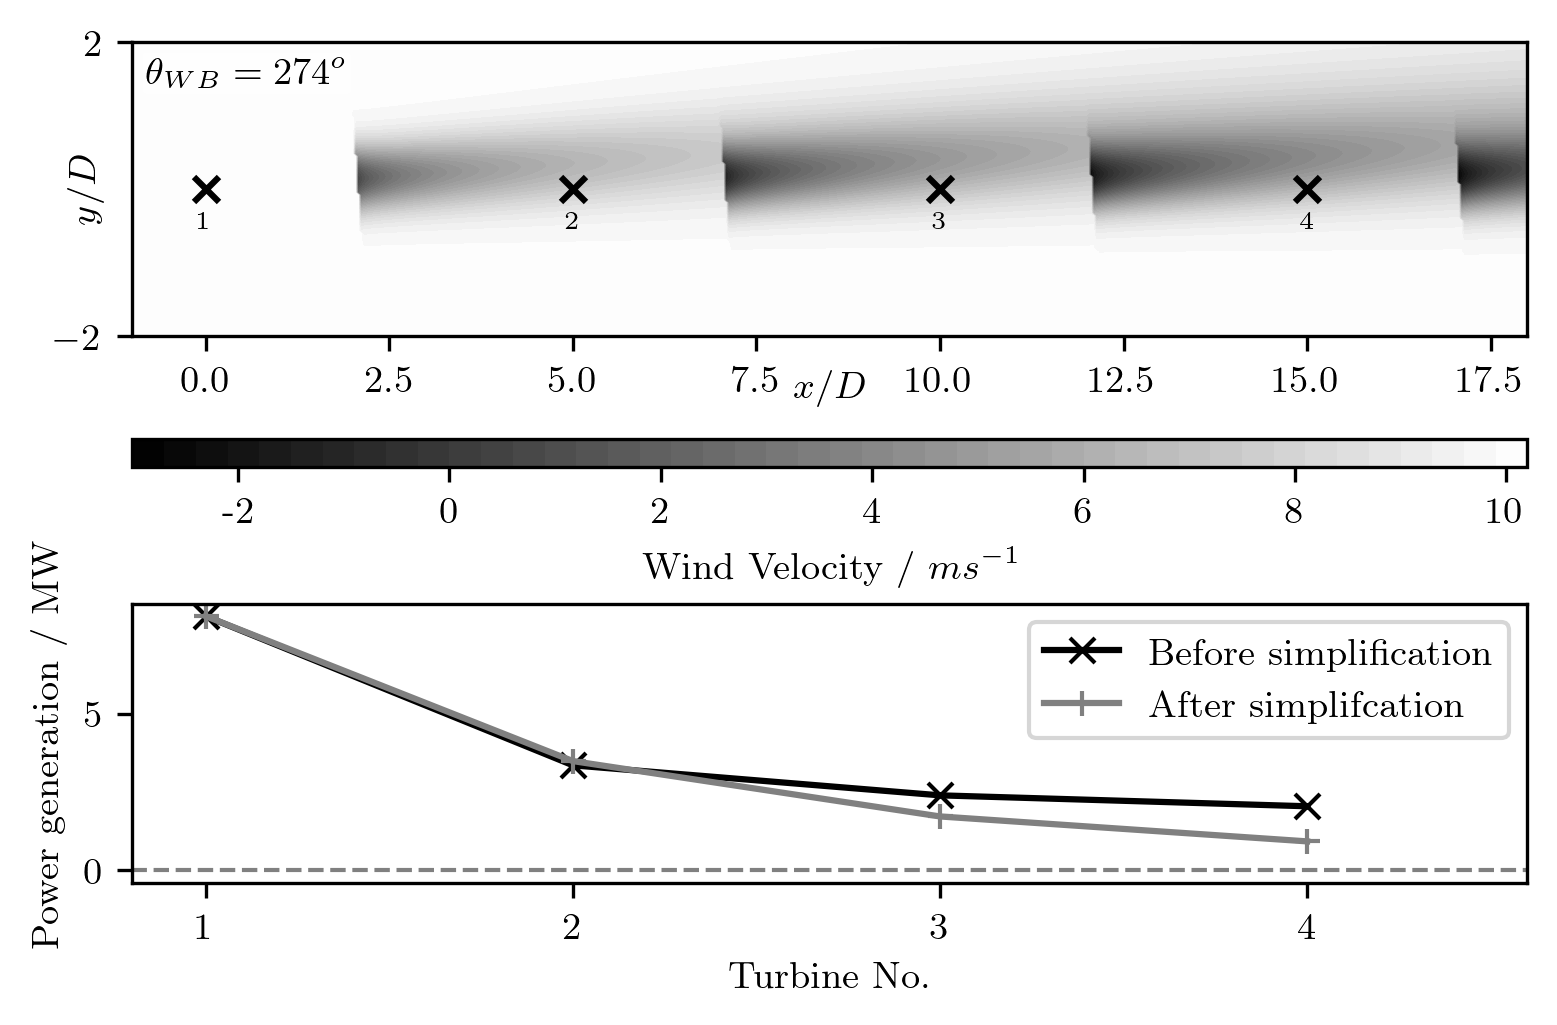
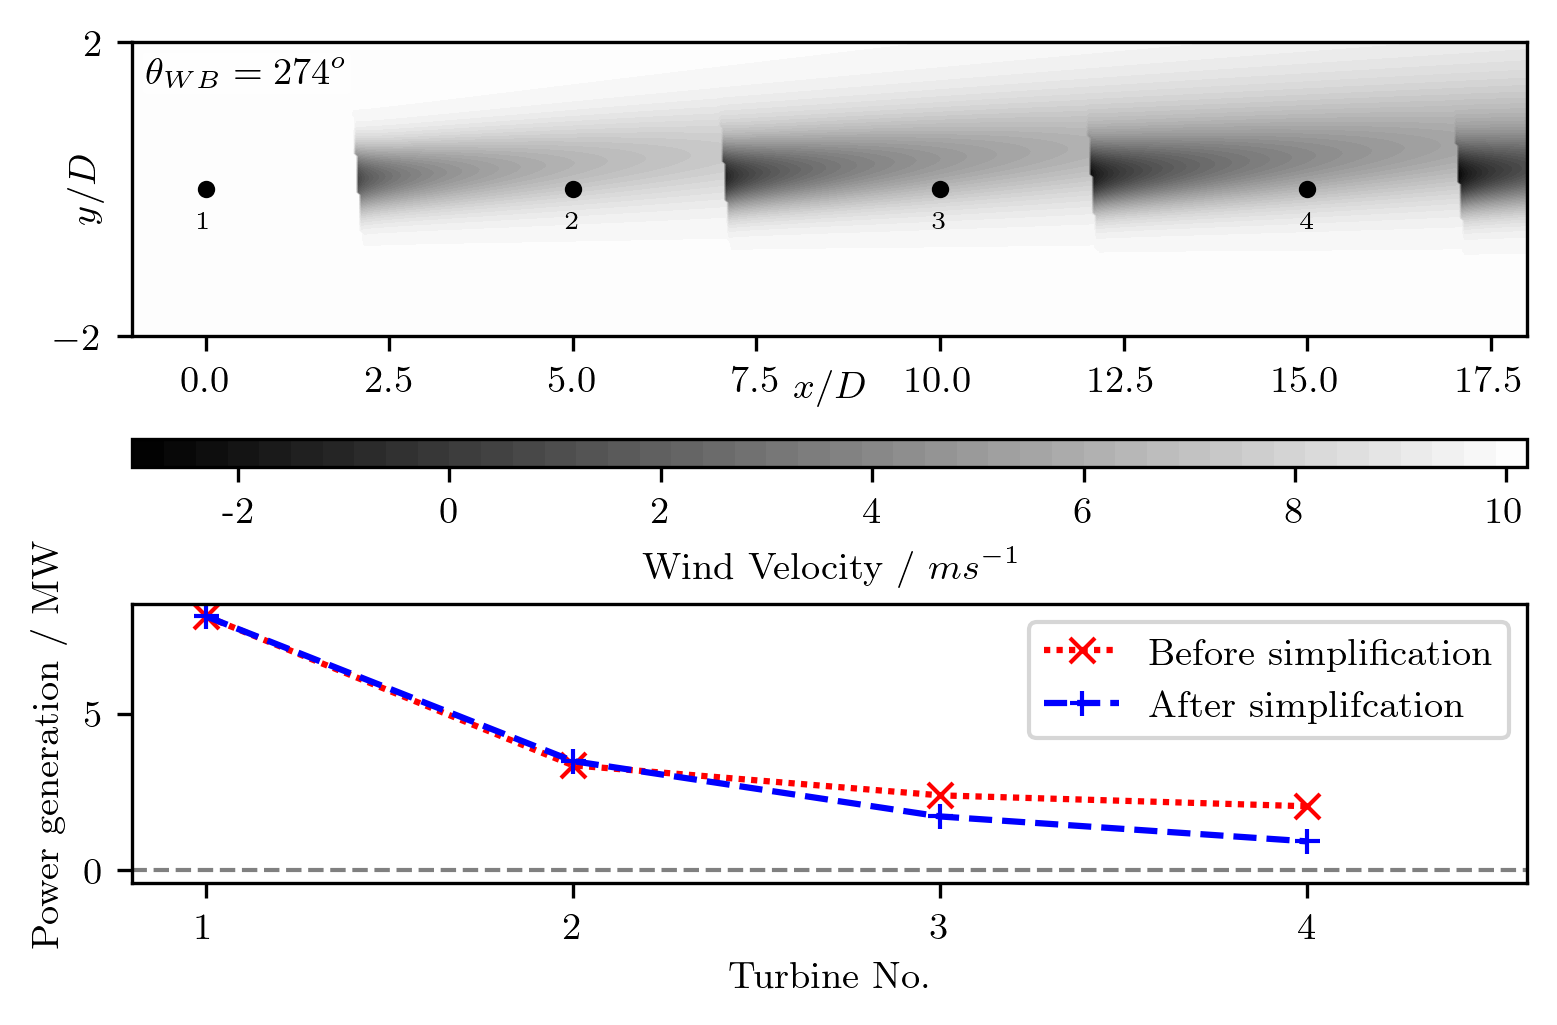
Updated figures

diff --git a/src/Fig_XtermSingle_v2.py b/src/Fig_XtermSingle_v2.py
@@ -12,7 +12,6 @@ XPAD = 7 #X border in normalised rotor DIAMETERS
 YPAD = 7 #Y border in normalised rotor DIAMETERS
 U_inf = 10 #inflow wind speed
 U_LIM = None #manually override ("user limit") the invalid radius around the turbine (otherwise variable, depending on k/Ct) - 
-K = 0.03
 XRES = 800 #number of x points in the contourf meshgrid
 YRES = 400 #must be odd so centerline can be picked later on
 
@@ -20,7 +19,7 @@ from utilities.helpers import linear_layout,rectangular_domain
 xt,yt,layout = linear_layout(NT,SPACING)
 xx,yy,plot_points,_,_ = rectangular_domain(layout,xpad=XPAD,ypad=YPAD,xr=XRES,yr=YRES)
 
-td = 4
+td = 4 #offset
 U_i,P_i,thetaD_i = np.array((U_inf,)),np.array((1,)),np.array((td,)) 
 
 from utilities.AEP3_functions import num_Fs
@@ -74,7 +73,7 @@ from matplotlib.colors import LinearSegmentedColormap
 colors = ["black", "white"]
 cmap1 = LinearSegmentedColormap.from_list("mycmap", colors)
 cf = ax1.contourf(xx,yy,Uwff_b.reshape(xx.shape),50,cmap=cmap1)
-ax1.scatter(layout[:,0],layout[:,1],marker ='x',color='black')
+ax1.scatter(layout[:,0],layout[:,1],marker ='o',color='black',s=10)
 #mark turbine locations
 for i in range(NT): #label each turbine
     an_text = str(i+1)
@@ -90,12 +89,15 @@ cb.set_label("Wind Velocity / $ms^{-1}$")
 from matplotlib.ticker import MaxNLocator
 cax.xaxis.set_major_locator(MaxNLocator(integer=True))
 
+colors = ["red", "green", "blue"] 
+line_styles = [(0, (1, 1)),"-.","--"]
+
 #scatter of per-turbine power generation
 ax2.set_xlabel('Turbine No.')
 ax2.set_ylabel('Power generation / MW')
 ax2.set(xlim=xlims)
-ax2.plot(layout[:,0],powj_a,marker = 'x',color='black',label='Before simplification')
-ax2.plot(layout[:,0],powj_b,marker='+',color='grey',label='After simplifcation')
+ax2.plot(layout[:,0],powj_a,marker = 'x',color=colors[0],label='Before simplification', ls=line_styles[0])
+ax2.plot(layout[:,0],powj_b,marker='+',color=colors[2],label='After simplifcation', ls=line_styles[2])
 ax2.hlines(0,-20,20,ls='--',color='grey',lw=1)
 ax2.legend(loc='upper right')
 xtick_labels = [str(i+1) for i in range(0,NT)]

diff --git a/src/Fig_turbRef.py b/src/Fig_turbRef.py
@@ -7,7 +7,8 @@ import matplotlib.pyplot as plt
 
 # Define the colormap
 cmap = plt.cm.viridis
-colors = [cmap(0.0), cmap(0.5)] 
+colors = ["red", "green", "blue"] 
+line_styles = [(0, (1, 1)),"-.","--"]
 set_latex_font()
 
 turb = iea_10MW()
@@ -16,15 +17,15 @@ y1 = turb.Ct_f(xs)
 y2 = turb.Cp_f(xs)
 import matplotlib.pyplot as plt
 fig,ax = plt.subplots(figsize=(3,2.5),dpi=300)
-ax.plot(xs,y1,label='$C_t$',color=colors[0])
-ax.plot(xs,y2,label='$C_p$',color=colors[1])
+ax.plot(xs,y1,label='$C_t$',color=colors[0],ls=line_styles[0])
+ax.plot(xs,y2,label='$C_p$',color=colors[2],ls=line_styles[2])
 ax.set(xlabel='Wind Speed / $ms^{-1}$',ylabel = 'Thrust/Power Coefficient',ylim=(None,0.9))
 
 ax.legend(loc="upper right",frameon=False)
 
 # Adding grey boxes to highlight regions
-ax.axvspan(3, 10.5, color='grey', alpha=0.15,ec='none')  # Adjust the x-axis values as per the region you want to highlight
-ax.axvspan(11, 25, color='grey', alpha=0.15,ec='none')  # Adjust the x-axis values as per the region you want to highlight
+ax.axvspan(3, 10.8, color='grey', alpha=0.15,ec='none')  # Adjust the x-axis values as per the region you want to highlight
+ax.axvspan(11.2, 25, color='grey', alpha=0.15,ec='none')  # Adjust the x-axis values as per the region you want to highlight
 
 ax.text(6.75, 0.85, 'Region II', horizontalalignment='center', verticalalignment='center', color='black')
 ax.text(18.25, 0.85, 'Region III', horizontalalignment='center', verticalalignment='center', color='black')

diff --git a/src/Fig_RndmLayout.py b/src/Fig_RndmLayout.py
@@ -9,7 +9,7 @@ if hasattr(sys, 'ps1'):
 
 import numpy as np
 
-run = 1
+run = 0
 SAVE_FIG = False
 timed = False 
 if not run:
@@ -276,8 +276,10 @@ fig = plt.figure(figsize=(7.8,2), dpi=300)
 ft = 1 #first time flag
 
 cmap = plt.cm.viridis
-colors = [cmap(0.0), cmap(0.5)] 
+colors = ["red", "green", "blue"] 
+line_styles = [(0, (1, 1)),"-.","--"]
 set_latex_font()
+
 
 
 #first is
@@ -292,12 +294,12 @@ def lin_reg_scatter(ax,x):
     ax.scatter(xs,y1,alpha=0.5,s=15,marker='x',label=ft*"GF Points",color=colors[0])
     # Linear regression 1 (Gaussian Flowers)
     m, b = np.polyfit(xs,y1,1)
-    ax.plot(xs, m*xs + b, lw=1,label=ft*"GF Linear Fit",color=colors[0])
+    ax.plot(xs, m*xs + b, lw=1,label=ft*"GF Linear Fit",color=colors[0],ls=line_styles[0])
 
-    ax.scatter(xs,y2,alpha=0.5,s=15,marker='+',label=ft*"JF Points",color=colors[1])
+    ax.scatter(xs,y2,alpha=0.5,s=20,marker='+',label=ft*"JF Points",color=colors[2])
     #Linear regression 2 (Jensen Flowers)
     m, b = np.polyfit(xs,y2,1)
-    ax.plot(xs, m*xs + b,lw=1,ls='-',label=ft*"JF Linear Fit",color=colors[1])
+    ax.plot(xs, m*xs + b,lw=1,label=ft*"JF Linear Fit",color=colors[2],ls=line_styles[2])
     
     
     ax.xaxis.set_major_locator(MaxNLocator(5))

diff --git a/src/Fig_FTermVary.py b/src/Fig_FTermVary.py
@@ -173,7 +173,8 @@ set_latex_font() #try use latex font
 
 # Define the colormap
 cmap = plt.cm.viridis
-colors = [cmap(0.0), cmap(0.5), cmap(1.0)] 
+colors = ["red", "green", "blue"] 
+line_styles = [(0, (1, 1)),"-.","--"]
 
 xmarkers = np.array([180, 160, 140, 120, 100, 80, 60, 40, 20, 1])
 
@@ -194,8 +195,8 @@ marker  = ['o','x','+']
 
 for i in range(3):
     lbl_text = "Site " + str(site_n[i])
-    ax1.plot(Nterms,aep_d[i,j,:]/aep_d[i,j,0],marker=None,color=colors[i],ms=S,label=lbl_text,mfc='black',mec='black',alpha=0.8)
-    ax2.plot(Nterms,(time_d[i,j,:]/time_d[i,j,0]),marker=None,color=colors[i],ms=S,mec='black',mfc='black',alpha=0.8)
+    ax1.plot(Nterms,aep_d[i,j,:]/aep_d[i,j,0],marker=None,color=colors[i],ms=S,label=lbl_text,mfc='black',mec='black',alpha=0.8,ls=line_styles[i])
+    ax2.plot(Nterms,(time_d[i,j,:]/time_d[i,j,0]),marker=None,color=colors[i],ms=S,mec='black',mfc='black',alpha=0.8,ls=line_styles[i])
 
 fig.legend(loc='upper center',ncols=3)
 

diff --git a/src/Fig_CtCpRef.py b/src/Fig_CtCpRef.py
@@ -1,4 +1,4 @@
-#% A figure to show the thrust and power coefficient of the chosen turbine. 
+#%% A figure to show the thrust and power coefficient of the chosen turbine. 
 
 from utilities.plotting_funcs import set_latex_font
 set_latex_font()
